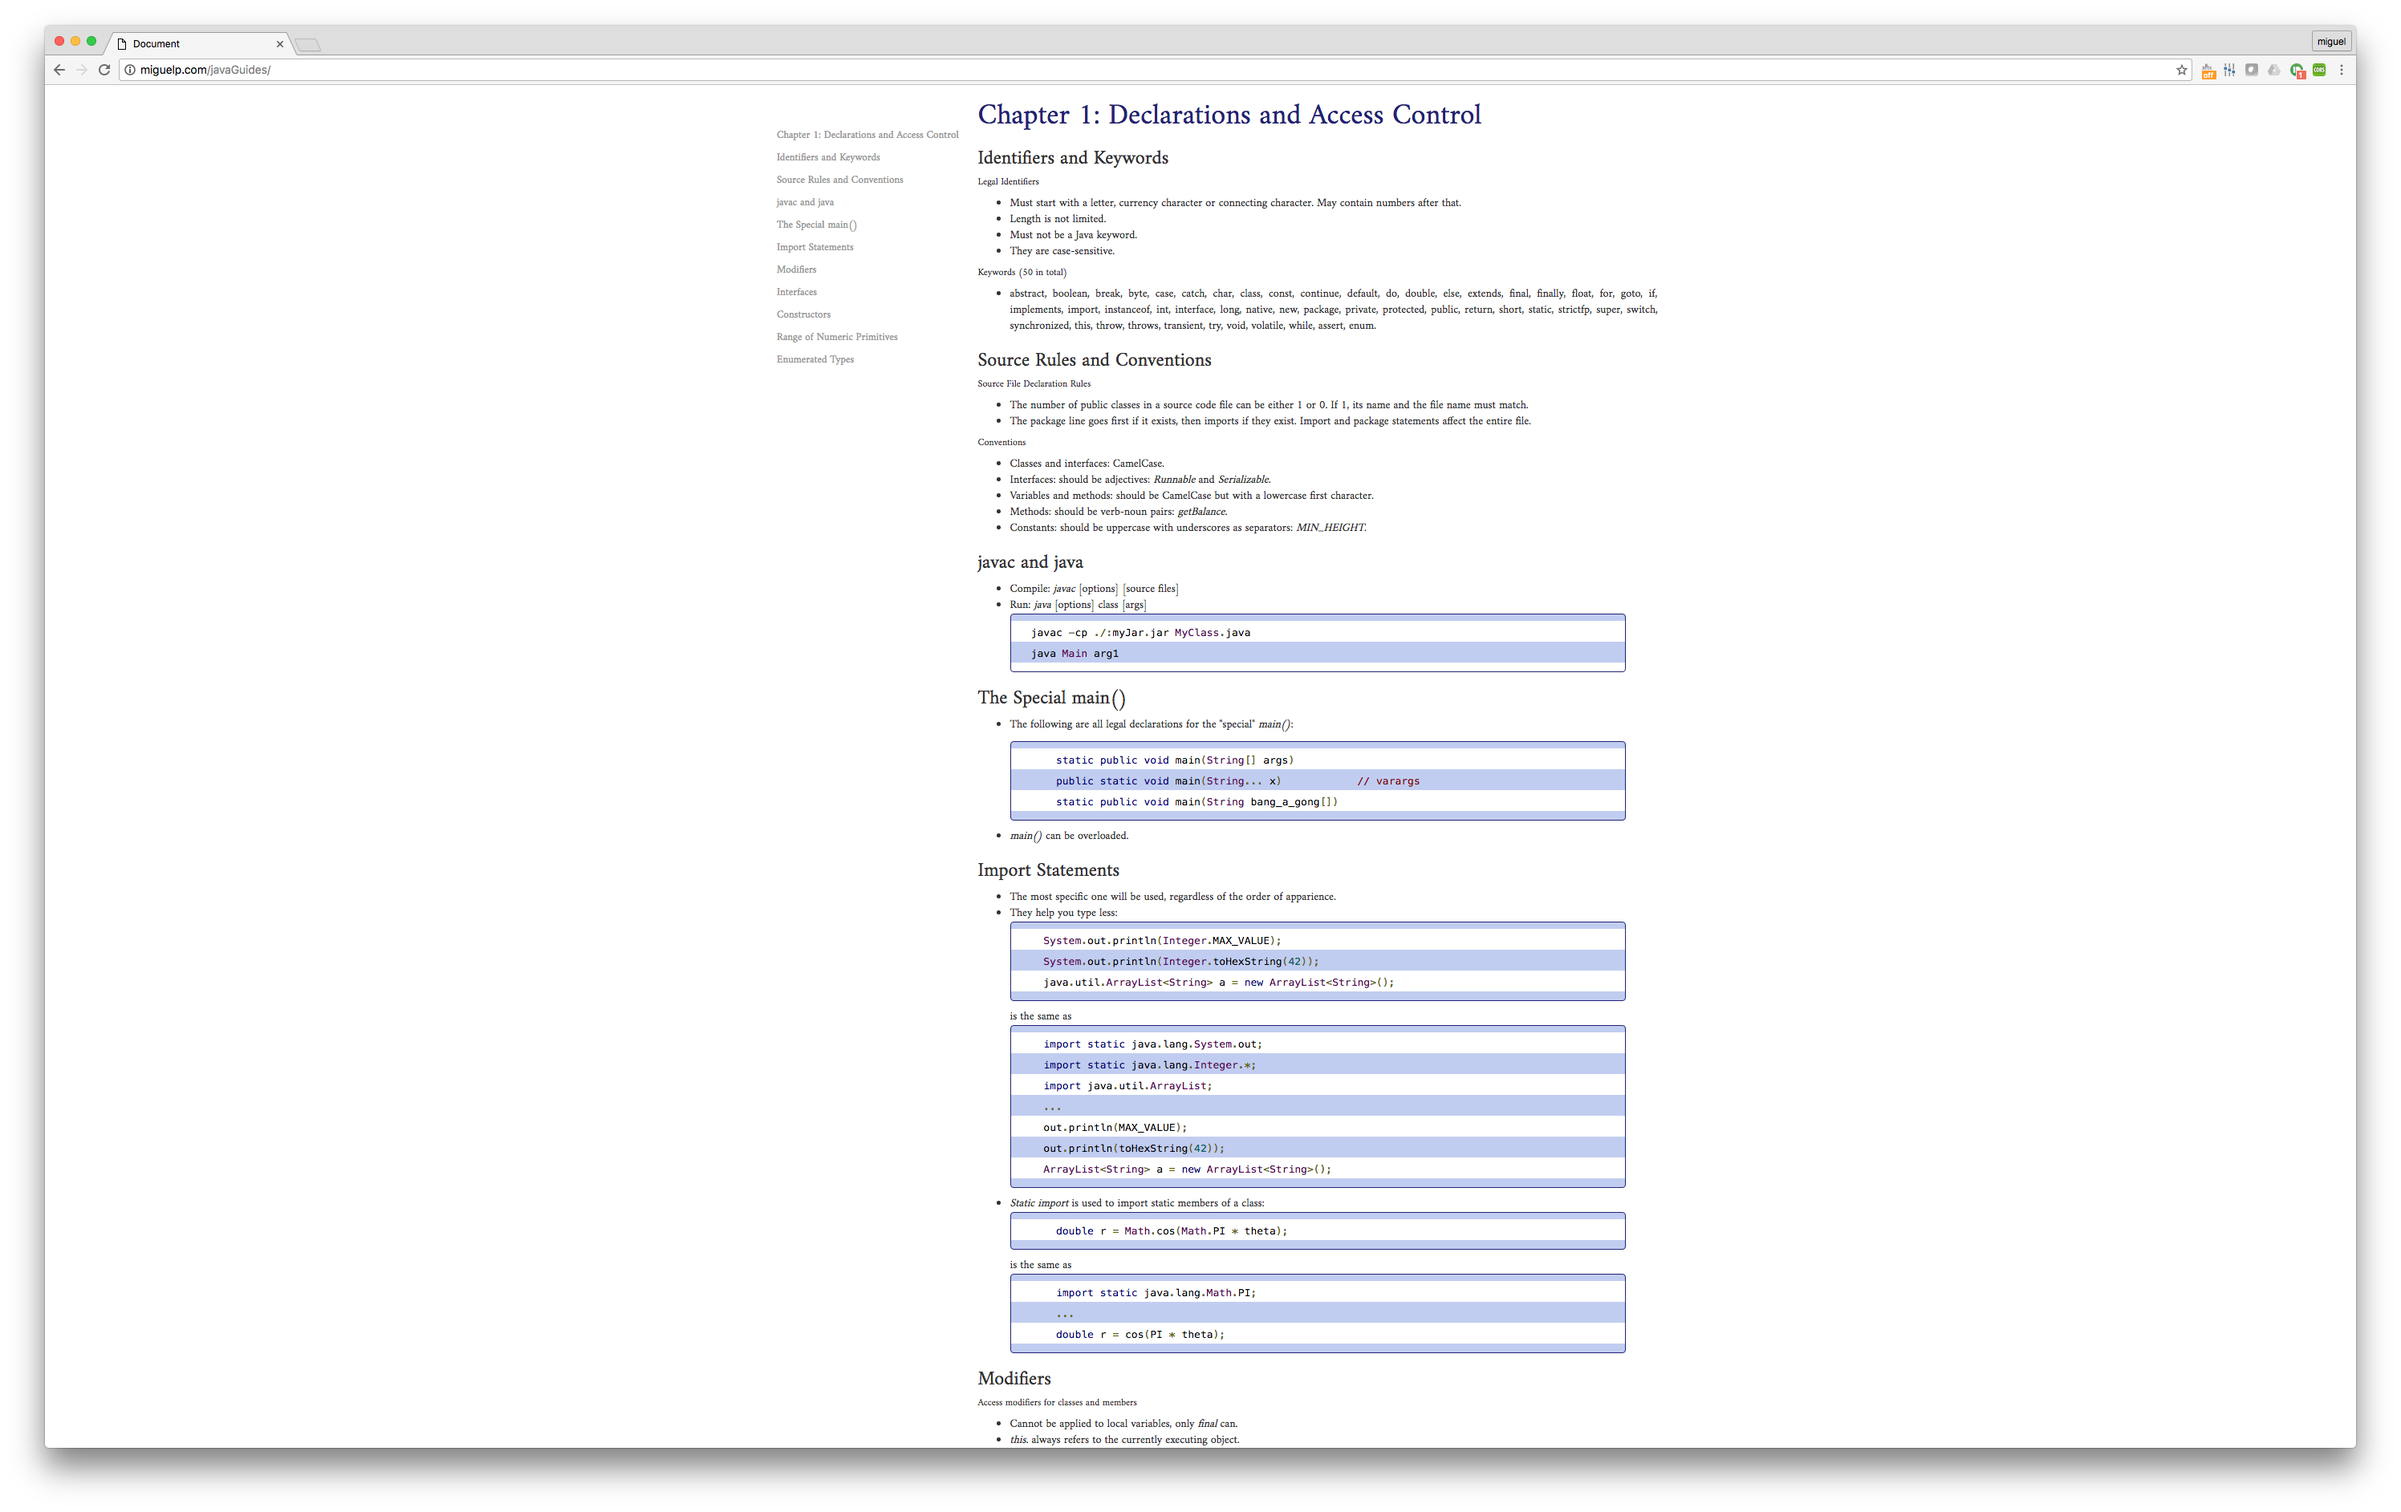
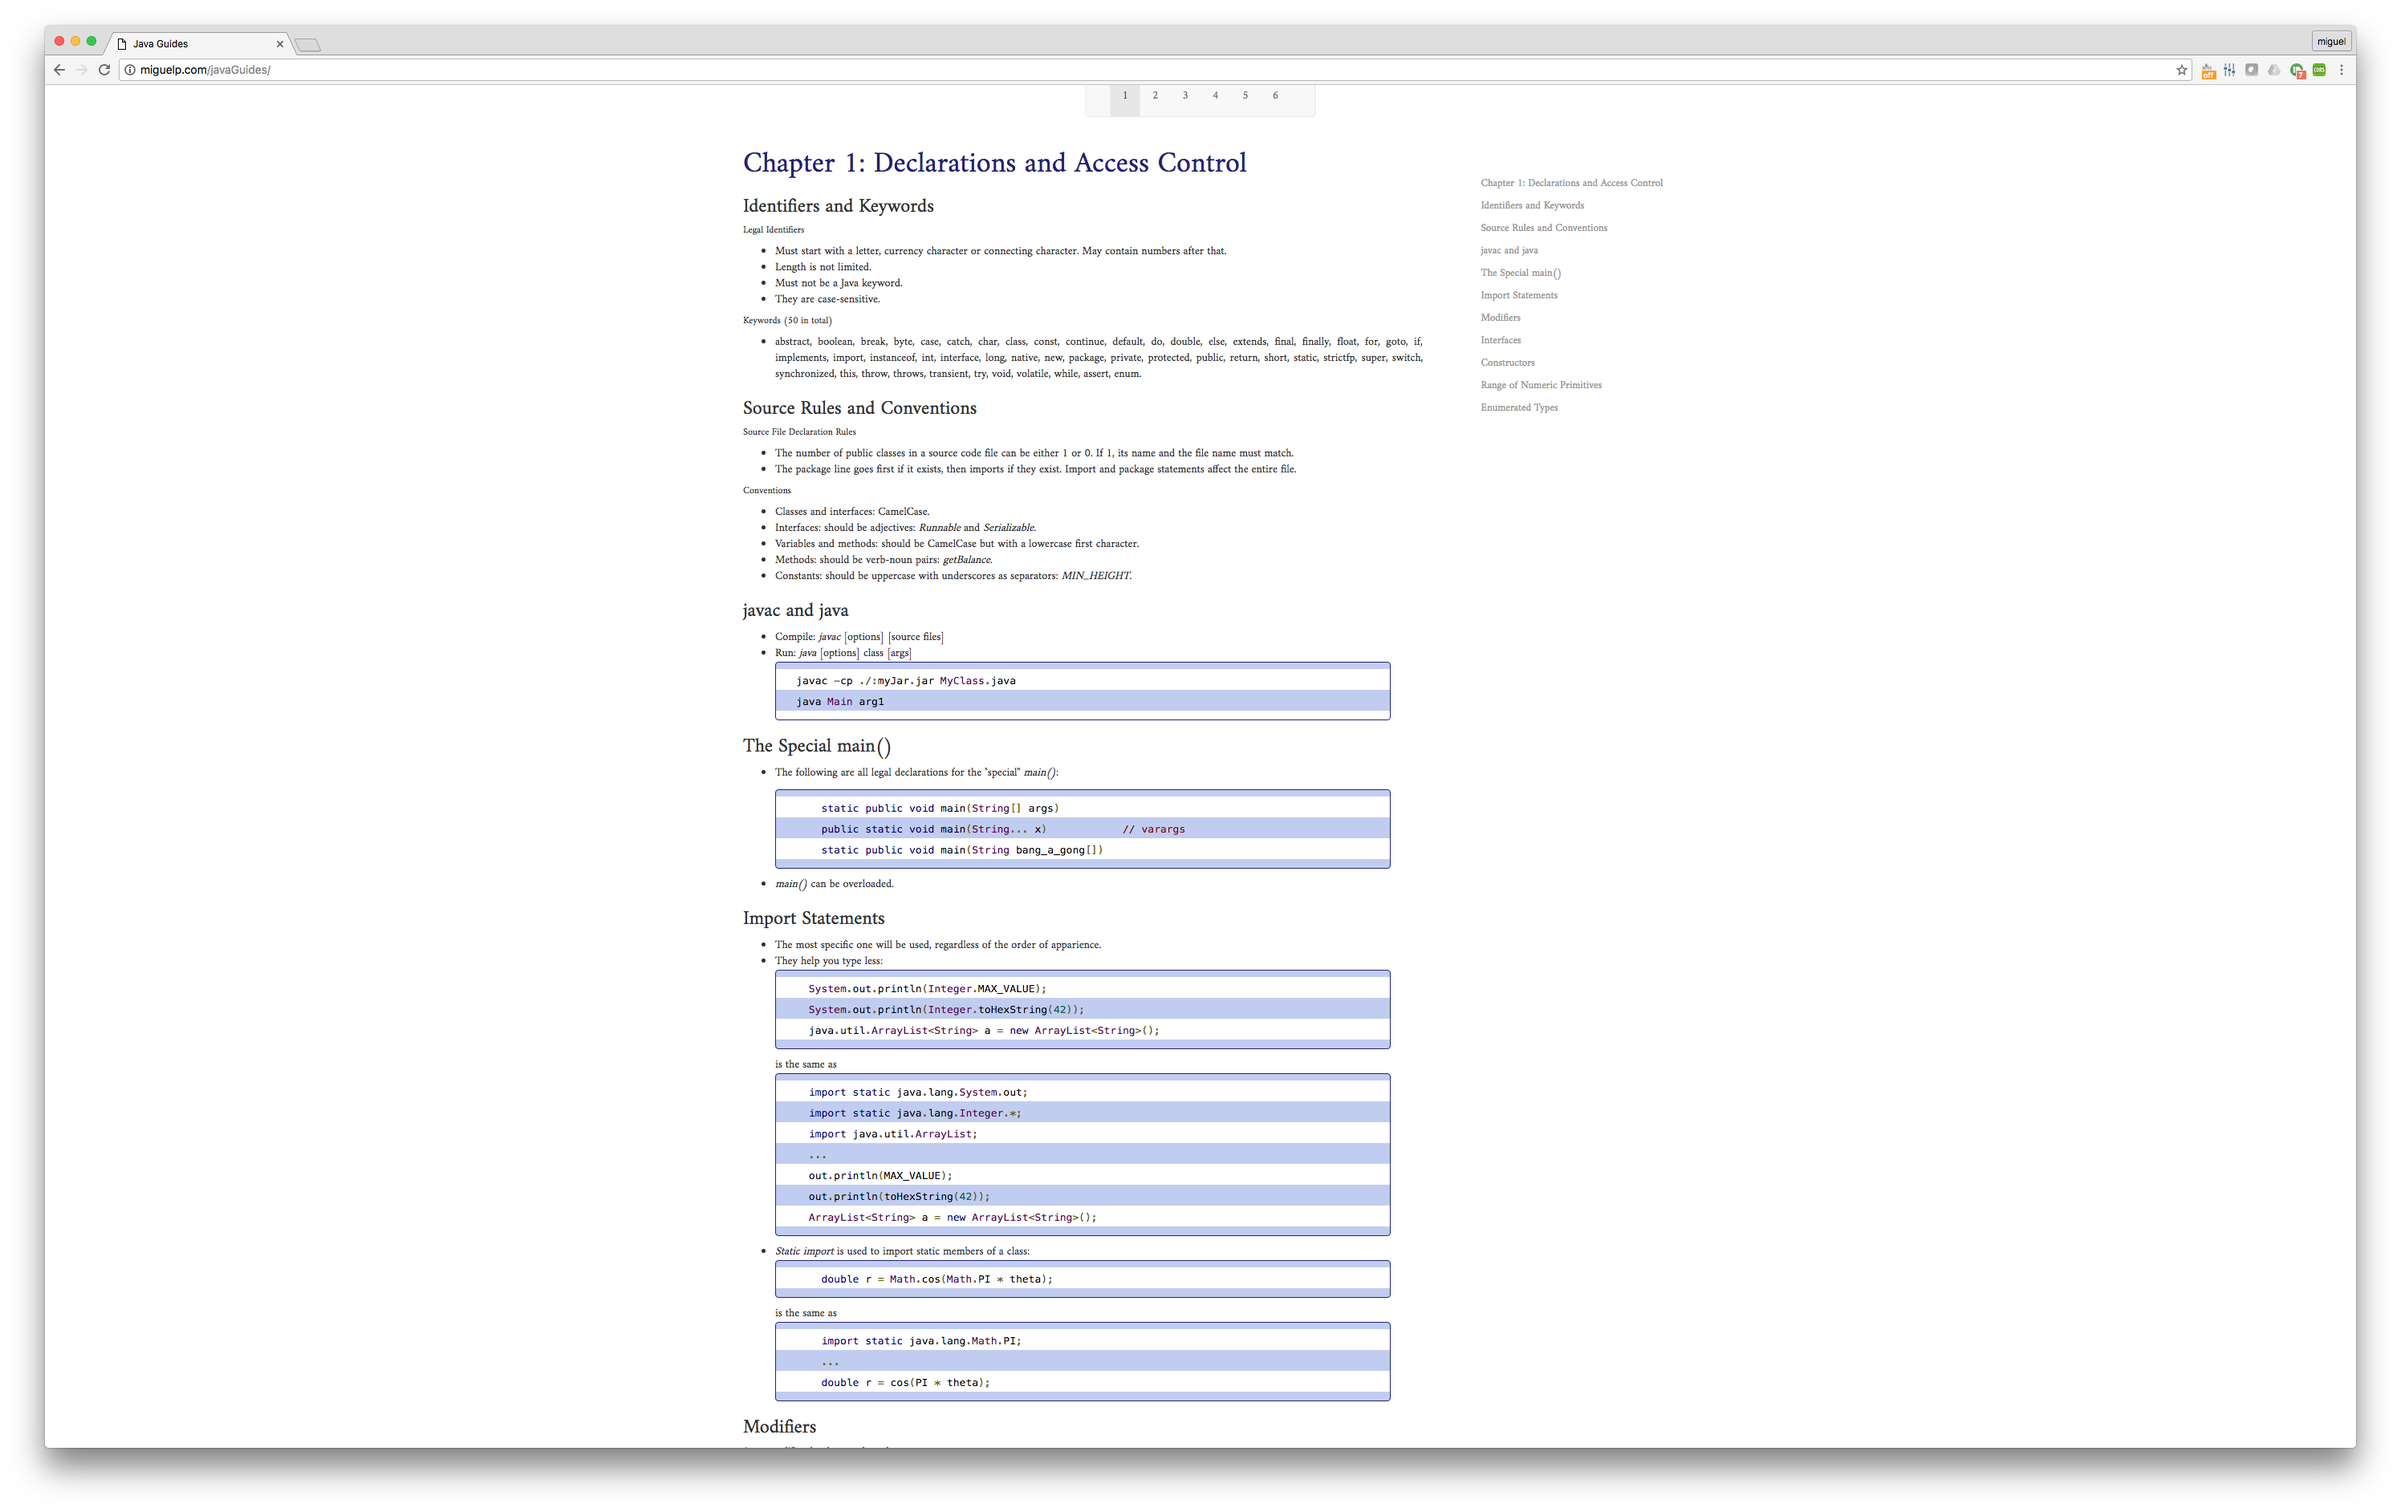
removed mobile loading message and updated screenshot.png

Changed region(s): [[0.3108, 0.0615, 0.6838, 0.9538], [0.5906, 0.2462, 0.6527, 0.2769]]

diff --git a/index.html b/index.html
@@ -20,7 +20,7 @@
 	<link href='https://fonts.googleapis.com/css?family=Amiri' rel='stylesheet' type='text/css'>
 	<link href="style.css" rel="stylesheet">
 
-	<title>Document</title>
+	<title>Java Guides</title>
 
 	<style>
 		#hoverable {
@@ -225,6 +225,7 @@
 			fillContent(--currentPage);
 		});
 
+		$.mobile.loading().hide();
 	</script>
 
 </body>
